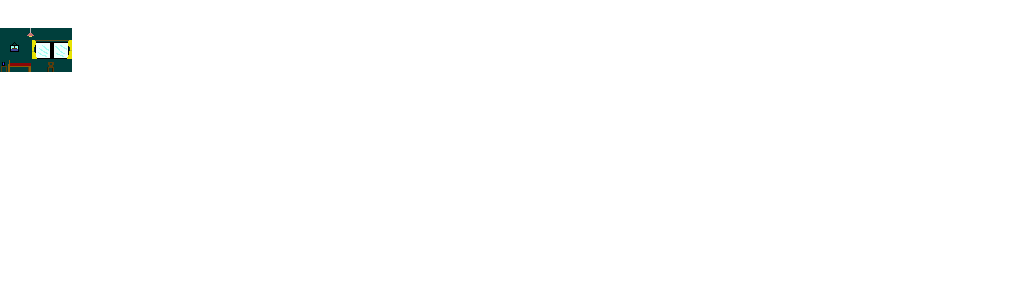
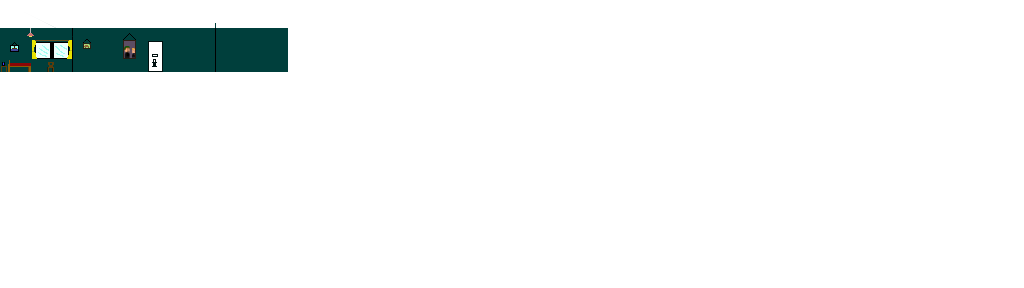
Camera and graphics updates

Changed region(s): [[0.0625, 0.0938, 0.2812, 0.25]]

diff --git a/Hanfeldt Game/src/com/hanfeldt/game/weapon/weapons/SniperRifle.java b/Hanfeldt Game/src/com/hanfeldt/game/weapon/weapons/SniperRifle.java
@@ -1,5 +1,6 @@
 package com.hanfeldt.game.weapon.weapons;
 
+import java.awt.Color;
 import java.awt.Graphics;
 
 import com.hanfeldt.game.Main;
@@ -11,8 +12,8 @@ import com.hanfeldt.game.weapon.AmmoWeapon;
 public class SniperRifle extends AmmoWeapon{
 	
 	private int damage;
-	private boolean aiming = false;
-	private int aimStart = 0;
+	private boolean aiming = false, aimDir;
+	private int aimStart = 0, scopeSize = 10, scopeDistance = 150;
 	
 	/**
 	 * Get n0sc0ped n00b
@@ -26,24 +27,39 @@ public class SniperRifle extends AmmoWeapon{
 	public void tick(){
 		super.tick();
 		
-		if(Main.getGame().getListener().rightMouseDown){
+		if(Main.getGame().getListener().rightMouseDown && !Main.getGame().getListener().rightMouseDownLastTick){
 			if(!aiming){
 				aimStart = Main.getGame().getCamera().getX();
+				aimDir = Main.getGame().getPlayer().getDirection();
 				aiming = true;
+				hasOverlay = true;
 			}else{
 				Main.getGame().getCamera().setFollowingPlayer();
 				aiming = false;
+				hasOverlay = false;
 			}
 		}
 		
 		if(aiming){
-			Main.getGame().getCamera().scrollX(aimStart, -150, 2);
+			Main.getGame().getCamera().scrollX(aimStart, aimDir ?  scopeDistance : -scopeDistance, 2);
 		}
 		
 	}
 	
-	public void drawFrame(Graphics g){
-		
+	public void drawOverlay(Graphics g){
+//		g.setColor(Color.BLACK);
+		g.drawOval(Main.mouseX - (scopeSize / 2) , Main.mouseY - (scopeSize / 2)	, scopeSize, scopeSize);
+		//TODO: Finish off
+//		for(int x = 0; x < Main.WIDTH; x++){
+//			for(int y= 0; y < Main.HEIGHT; y++){
+//				if((x > Main.mouseX - (scopeSize / 2)
+//					|| x < Main.mouseX + (scopeSize / 2))
+//					&& (y > Main.mouseY - (scopeSize / 2)
+//					|| y < Main.mouseY - (scopeDistance / 2))
+//					&& (scopeSize * 2 < (Main.mouseX*2) + (Main.mouseY*2)))
+//					g.drawLine(x, y, x, y);
+//			}
+//		}
 	}
 	
 	public void trigger(){

diff --git a/Hanfeldt Game/src/com/hanfeldt/game/properties/PropertiesLoader.java b/Hanfeldt Game/src/com/hanfeldt/game/properties/PropertiesLoader.java
@@ -81,13 +81,13 @@ public class PropertiesLoader {
 		input.close();
 	}
 	
-	public static void loadProperties(){
+	public static void loadProperties(int level){
 		Properties prop = new Properties();
 		InputStream input = null;
 		
 		try{
 			printDebug("Reading Level properties file...\n");
-			loadLevelProperties(Story.getCurrentLevel() + 1, String.format("/config/levels/level%d/level.conf", Story.getCurrentLevel() + 1), input, prop);
+			loadLevelProperties(level, String.format("/config/levels/level%d/level.conf", Story.getCurrentLevel() + 1), input, prop);
 		}catch(IOException e){
 			printErrorDebug("Error while reading properties file.");
 			printStackTraceDebug(e);
@@ -131,6 +131,10 @@ public class PropertiesLoader {
 		printDebug("Has Static Background: " + p.getProperty("hasStaticBg"));
 		LevelLoader.hasStaticBg = Boolean.parseBoolean(p.getProperty("hasStaticBg"));
 		
+		//HasForeGround
+		printDebug("Has ForeGround: " + p.getProperty("hasForeG"));
+		LevelLoader.hasForeGround = Boolean.parseBoolean(p.getProperty("hasForeG"));
+		
 		//Npc List
 		printDebug("List of NPC's: " + p.getProperty("npcList"));
 		NpcList.characterList =  p.getProperty("npcList").replaceAll("\\[", "").replaceAll("\\]", "").replaceAll(" ", "").split(",");
@@ -150,10 +154,6 @@ public class PropertiesLoader {
 		for(int i = 0; i < temp1.length; i++){
 			LevelLoader.currentLevelNpcTrigger[i] = Integer.parseInt(temp1[i]);
 		}
-	
-		//NPC Actions
-		printDebug("NPCActions: " + p.getProperty("npcAction"));
-		LevelLoader.currentLevelNpcAction = p.getProperty("npcAction").replaceAll("\\[", "").replaceAll("\\]", "").replaceAll(" ", "").split(",");
 	
 		printDebug("\n--- Level Properties---\n");
 		

diff --git a/Hanfeldt Game/src/com/hanfeldt/game/display/Camera.java b/Hanfeldt Game/src/com/hanfeldt/game/display/Camera.java
@@ -21,7 +21,8 @@ public class Camera {
 	private Player player;
 	private Entity entity, previousEntity;
 	private int shakingTicks, zoom, playerMoveWeightX = 50, playerPanToSpeed = 4;
-	private boolean scrolled = false, scrolledleft = false, scrolledright = false, followingEntity = false, dir;
+	private boolean scrolled = false, scrolledleft = false, scrolledright = false, 
+									followingEntity = false, dir;
 	private Random rand = new Random();
 	
 	public Camera(int x, int y, Player p) {
@@ -179,6 +180,36 @@ public class Camera {
 	public void renderImageNoOff(Graphics g, BufferedImage image, int x, int y, int enlargement) {
 		Sprite s = new Sprite(image);
 		s.draw(g, x, y, enlargement * zoom);
+	}
+	
+	/**
+	 * Draws a rectangular border around the screen for a cinematic effect
+	 * @param g
+	 * @param x1
+	 * @param x2
+	 * @param y1
+	 * @param y2
+	 * @param c
+	 */
+	public void drawRectBorder(Graphics g, int x1, int x2, int y1, int y2, Color c, boolean dynamic){
+		g.setColor(c);
+		for(int dx = 0; dx < Main.WIDTH; dx++){
+			for(int dy = 0; dy < Main.HEIGHT; dy++){
+				if(dynamic){
+					if((dx > x1||dx <  x2) &&
+						(dy < y1 + (entity.getY() / Main.TILE_SIZE)
+								|| dy > y2 - (entity.getY() / Main.TILE_SIZE))){
+							g.drawLine(dx, dy, dx, dy);
+						}
+				}else{
+					if((dx > x1 ||dx < x2) &&
+						(dy < y1|| dy > y2)){
+							g.drawLine(dx, dy, dx, dy);
+					}
+				}
+			}
+		}
+		
 	}
 	
 	public void setX(int x) {

diff --git a/Hanfeldt Game/src/com/hanfeldt/game/state/Story.java b/Hanfeldt Game/src/com/hanfeldt/game/state/Story.java
@@ -6,7 +6,6 @@ import com.hanfeldt.game.Main;
 import com.hanfeldt.game.display.Camera;
 import com.hanfeldt.game.entity.Player;
 import com.hanfeldt.game.level.LevelLoader;
-import com.hanfeldt.game.properties.PropertiesLoader;
 import com.hanfeldt.game.scripting.NpcScript;
 import com.hanfeldt.io.Debug;
 
@@ -18,18 +17,13 @@ public class Story extends Playing {
 	
 	public Story(Main main, Camera c) {
 		super(main, c);
-
-		PropertiesLoader.loadProperties();
 		
 		//Load levels
 		LevelLoader.loadLevel(level);
 		
-		level = 0;
 		Player p = main.getPlayer();
-//		p.setX(Main.WIDTH /2);
 		p.setHealth(Player.maxHealth);
 		main.createGoreList();
-//		main.getNpc().add(new Bill(500, Main.HEIGHT - (Main.TILE_SIZE *4)));
 		script = new NpcScript(main, p);
 	}
 	
@@ -43,8 +37,9 @@ public class Story extends Playing {
 			}else{
 				Story.addLevel(level);
 				LevelLoader.loadLevel(level);
-				player.setX(0);
-				player.setY(Main.HEIGHT - Main.TILE_SIZE *2 - player.getSizeY());
+				Main.getGame().respawnPlayer();
+//				player.setX(0);
+//				player.setY(Main.HEIGHT - Main.TILE_SIZE *2 - player.getSizeY());
 				player.levelFinished = false;
 			}
 		}

diff --git a/Hanfeldt Game/src/com/hanfeldt/game/level/Background.java b/Hanfeldt Game/src/com/hanfeldt/game/level/Background.java
@@ -28,6 +28,15 @@ public class Background {
 			staticLayer[0] = new BackgroundSheet(levelPath(currentLevel, 0, true), 2);;
 			staticLayer[0].isStatic = true;
 		}
+		
+		fore = LevelLoader.hasForeGround;
+		
+		if(fore){
+			foreStaticLayer = new BackgroundSheet[1];
+			foreStaticLayer[0] = new BackgroundSheet(levelPath(currentLevel, 1, true), 2);
+			foreStaticLayer[0].isStatic = true;
+		}
+		
 		sectorY = layer[0].getImage().getHeight();
 		System.out.println(sectorY);
 	}
@@ -47,9 +56,12 @@ public class Background {
 		}
 	}
 	
-	public void draw(Graphics g, boolean foreGround){
-		
-	}
+	public void drawFore(Graphics g){
+		if(foreStaticLayer!=null)
+		for(int i = 0; i < foreStaticLayer.length; i++){
+			foreStaticLayer[i].drawEnlarged(g, -Main.getGame().getCamera().getX(), -Main.getGame().getCamera().getY());
+		}
+	}	
 	
 	public double viewModifierX(int i){
 		if(i == 0){//Far items

diff --git a/Hanfeldt Game/src/com/hanfeldt/game/level/LevelLoader.java b/Hanfeldt Game/src/com/hanfeldt/game/level/LevelLoader.java
@@ -10,8 +10,7 @@ public class LevelLoader {
 	
 	public static int currentLevelBgAmount = 0;
 	public static int[] currentLevelNpcTrigger;
-	public static String[] currentLevelNpcAction;
-	public static boolean hasStaticBg;
+	public static boolean hasStaticBg, hasForeGround;
 	
 	public LevelLoader(){
 		
@@ -22,9 +21,9 @@ public class LevelLoader {
 	}
 	
 	public static void loadLevel(int level){
-		PropertiesLoader.loadProperties();
+		PropertiesLoader.loadProperties(level);
 		NpcScript.resetDialogue();
-		NpcScript.setNpcTriggersAndActions(currentLevelNpcTrigger, currentLevelNpcAction);
+		NpcScript.setNpcTriggersAndActions(currentLevelNpcTrigger);
 		Main.getGame().setLevels(new LevelStory(String.format("/images/maps/levels/level%d.png", level + 1), Main.getGame().getPlayer()));
 		NpcList.loadCharacters();
 		Main.getGame().getLevels().setBg(level);

diff --git a/Hanfeldt Game/src/com/hanfeldt/game/state/Playing.java b/Hanfeldt Game/src/com/hanfeldt/game/state/Playing.java
@@ -1,5 +1,6 @@
 package com.hanfeldt.game.state;
 
+import java.awt.Color;
 import java.awt.Graphics;
 import java.util.ArrayList;
 
@@ -71,7 +72,6 @@ public abstract class Playing extends State {
 				}
 			}
 		}
-		main.getHud().draw(g);
 		for(GoreSpawn go : main.getGore()) {
 //			go.render(g);
 			camera.renderGore(g, go);
@@ -140,7 +140,16 @@ public abstract class Playing extends State {
 					camera.renderSprite(g, p.getWeaponEquipped().getReverseSprite(), p.getX() - 10, p.getY() +Main.TILE_SIZE /2);
 				}
 			}
+			if(p.getWeaponEquipped().hasOverlay){
+				p.getWeaponEquipped().drawOverlay(g);
+			}
 		}
+		
+		main.getLevels().renderForeground(g);
+		
+//		camera.drawRectBorder(g, 0, Main.WIDTH, 40, 110, Color.BLACK, true);
+
+		main.getHud().draw(g);
 	}
 	
 }

diff --git a/Hanfeldt Game/src/com/hanfeldt/game/weapon/Weapon.java b/Hanfeldt Game/src/com/hanfeldt/game/weapon/Weapon.java
@@ -3,6 +3,8 @@
 import java.awt.Graphics;
 import java.awt.image.BufferedImage;
 
+import sun.java2d.pipe.DrawImage;
+
 import com.hanfeldt.game.Main;
 import com.hanfeldt.game.display.Sprite;
 import com.hanfeldt.game.entity.EntityLiving;
@@ -11,7 +13,7 @@ public abstract class Weapon {
 	protected Sprite sprite;
 	protected EntityLiving entity;
 	protected long totalTicks = 0;
-	public boolean automatic = true;
+	public boolean automatic = true, hasOverlay = false;
 	
 	public Weapon(EntityLiving e, Sprite s) {
 		entity = e;
@@ -27,6 +29,10 @@ public abstract class Weapon {
 	
 	public Sprite getSprite() {
 		return sprite;
+	}
+	
+	public void drawOverlay(Graphics g){
+		return;
 	}
 	
 	public Sprite getReverseSprite() {

diff --git a/Hanfeldt Game/src/com/hanfeldt/game/scripting/NpcScript.java b/Hanfeldt Game/src/com/hanfeldt/game/scripting/NpcScript.java
@@ -20,7 +20,6 @@ public class NpcScript {
 	private static int currentDialogue = 0;
 	private static int[] dialogueTriggerX;
 	private static int currentLevel;
-//	private static String[] actions;
 	
 	public NpcScript(Main main, Player p){
 		this.main = main;
@@ -61,10 +60,9 @@ public class NpcScript {
 		}
 	}
 	
-	public static void setNpcTriggersAndActions(int[] triggers, String[] action){
+	public static void setNpcTriggersAndActions(int[] triggers){
 		dialogueTriggerX = new int[triggers.length];
 		dialogueTriggerX = triggers;
-//		actions = action;
 	}
 	
 //	public static Npc getCurrentTriggeredNpc(){

diff --git a/Hanfeldt Game/src/com/hanfeldt/game/level/LevelStory.java b/Hanfeldt Game/src/com/hanfeldt/game/level/LevelStory.java
@@ -12,6 +12,7 @@ import com.hanfeldt.game.entity.npc.Spawner;
 import com.hanfeldt.game.entity.npc.monsters.Zombie;
 import com.hanfeldt.game.tile.Air;
 import com.hanfeldt.game.tile.Tile;
+import com.hanfeldt.io.Debug;
 
 public class LevelStory extends Level {
 	/*
@@ -97,6 +98,7 @@ public class LevelStory extends Level {
 				break;
 			case "playerSpawner":
 				setPlayerSpawn(Main.TILE_SIZE*x, Main.TILE_SIZE * y);
+				Debug.printDebug("Player spawn set to: " + Main.TILE_SIZE*x +  ", " + Main.TILE_SIZE * y);
 				Main.getGame().getPlayer().setLocation(getPlayerSpawnPoint());
 				break;
 			default:

diff --git a/Hanfeldt Game/src/com/hanfeldt/game/level/BackgroundSheet.java b/Hanfeldt Game/src/com/hanfeldt/game/level/BackgroundSheet.java
@@ -26,6 +26,7 @@ public class BackgroundSheet {
 		}
 	}
 	
+	
 	public BackgroundSheet(String path, int enlarge){
 		
 		BufferedImage temp = null;
@@ -35,7 +36,7 @@ public class BackgroundSheet {
 		}catch(Exception e) {
 			e.printStackTrace();
 			System.err.println("Failed to read " + path);
-		}finally{
+		}finally{		
 			sheet = temp;
 		}
 		

diff --git a/Hanfeldt Game/src/com/hanfeldt/game/level/Level.java b/Hanfeldt Game/src/com/hanfeldt/game/level/Level.java
@@ -39,7 +39,7 @@ public class Level {
 	}
 	
 	public void renderForeground(Graphics g){
-		
+		bg.drawFore(g);
 	}
 	
 	public int getSizeX() {
